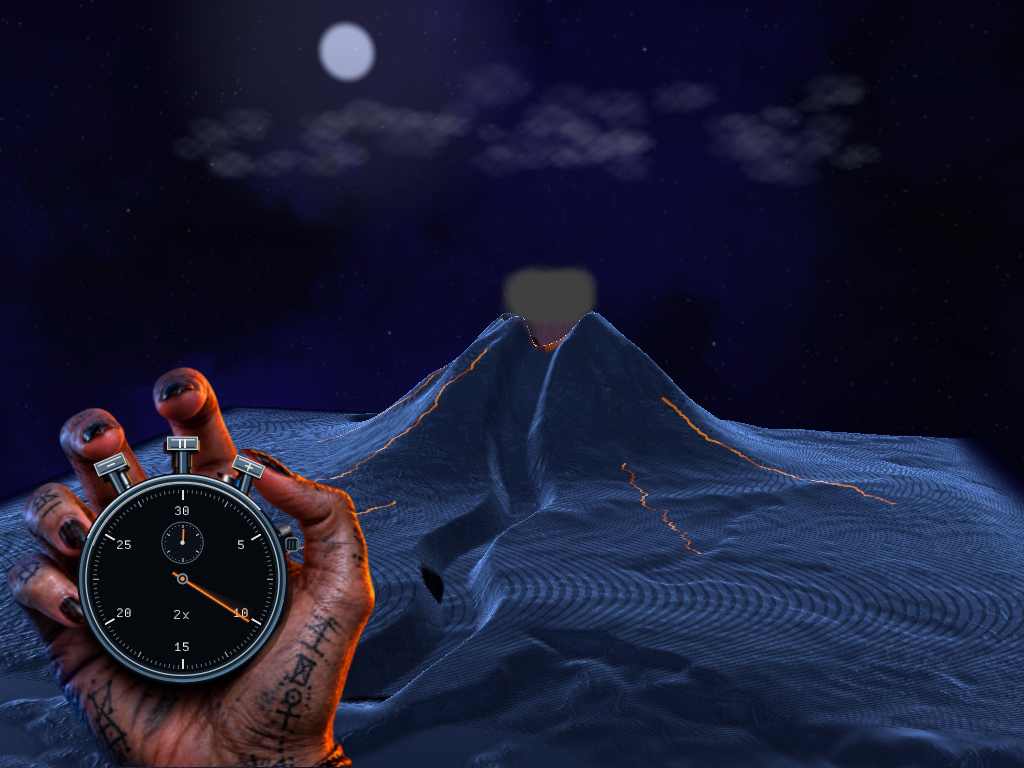
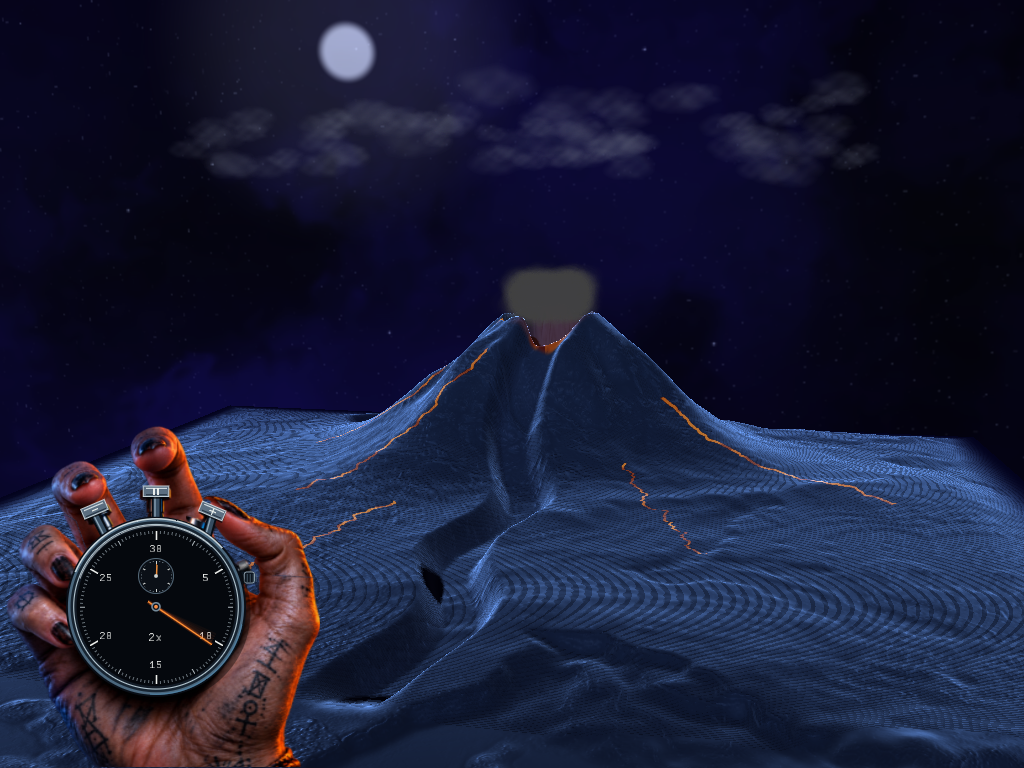
style: reduce stopwatch hand footprint

Changed region(s): [[0.0, 0.4688, 0.375, 1.0]]

diff --git a/elemental/StopwatchWidget.cpp b/elemental/StopwatchWidget.cpp
@@ -218,7 +218,7 @@ void triggerStopwatchFinger(StopwatchAction action)
 StopwatchAction drawStopwatch(double elapsedSeconds, float timeScale, bool paused)
 {
     const ImGuiIO& io = ImGui::GetIO();
-    const float scale = std::max(0.68f, std::min(0.88f, io.DisplaySize.y / 768.0f));
+    const float scale = std::max(0.58f, std::min(0.75f, io.DisplaySize.y / 768.0f));
     const ImVec2 size(426.0f * scale, 500.0f * scale);
     const ImVec2 position(4.0f * scale,
                           std::max(0.0f, io.DisplaySize.y - size.y));
